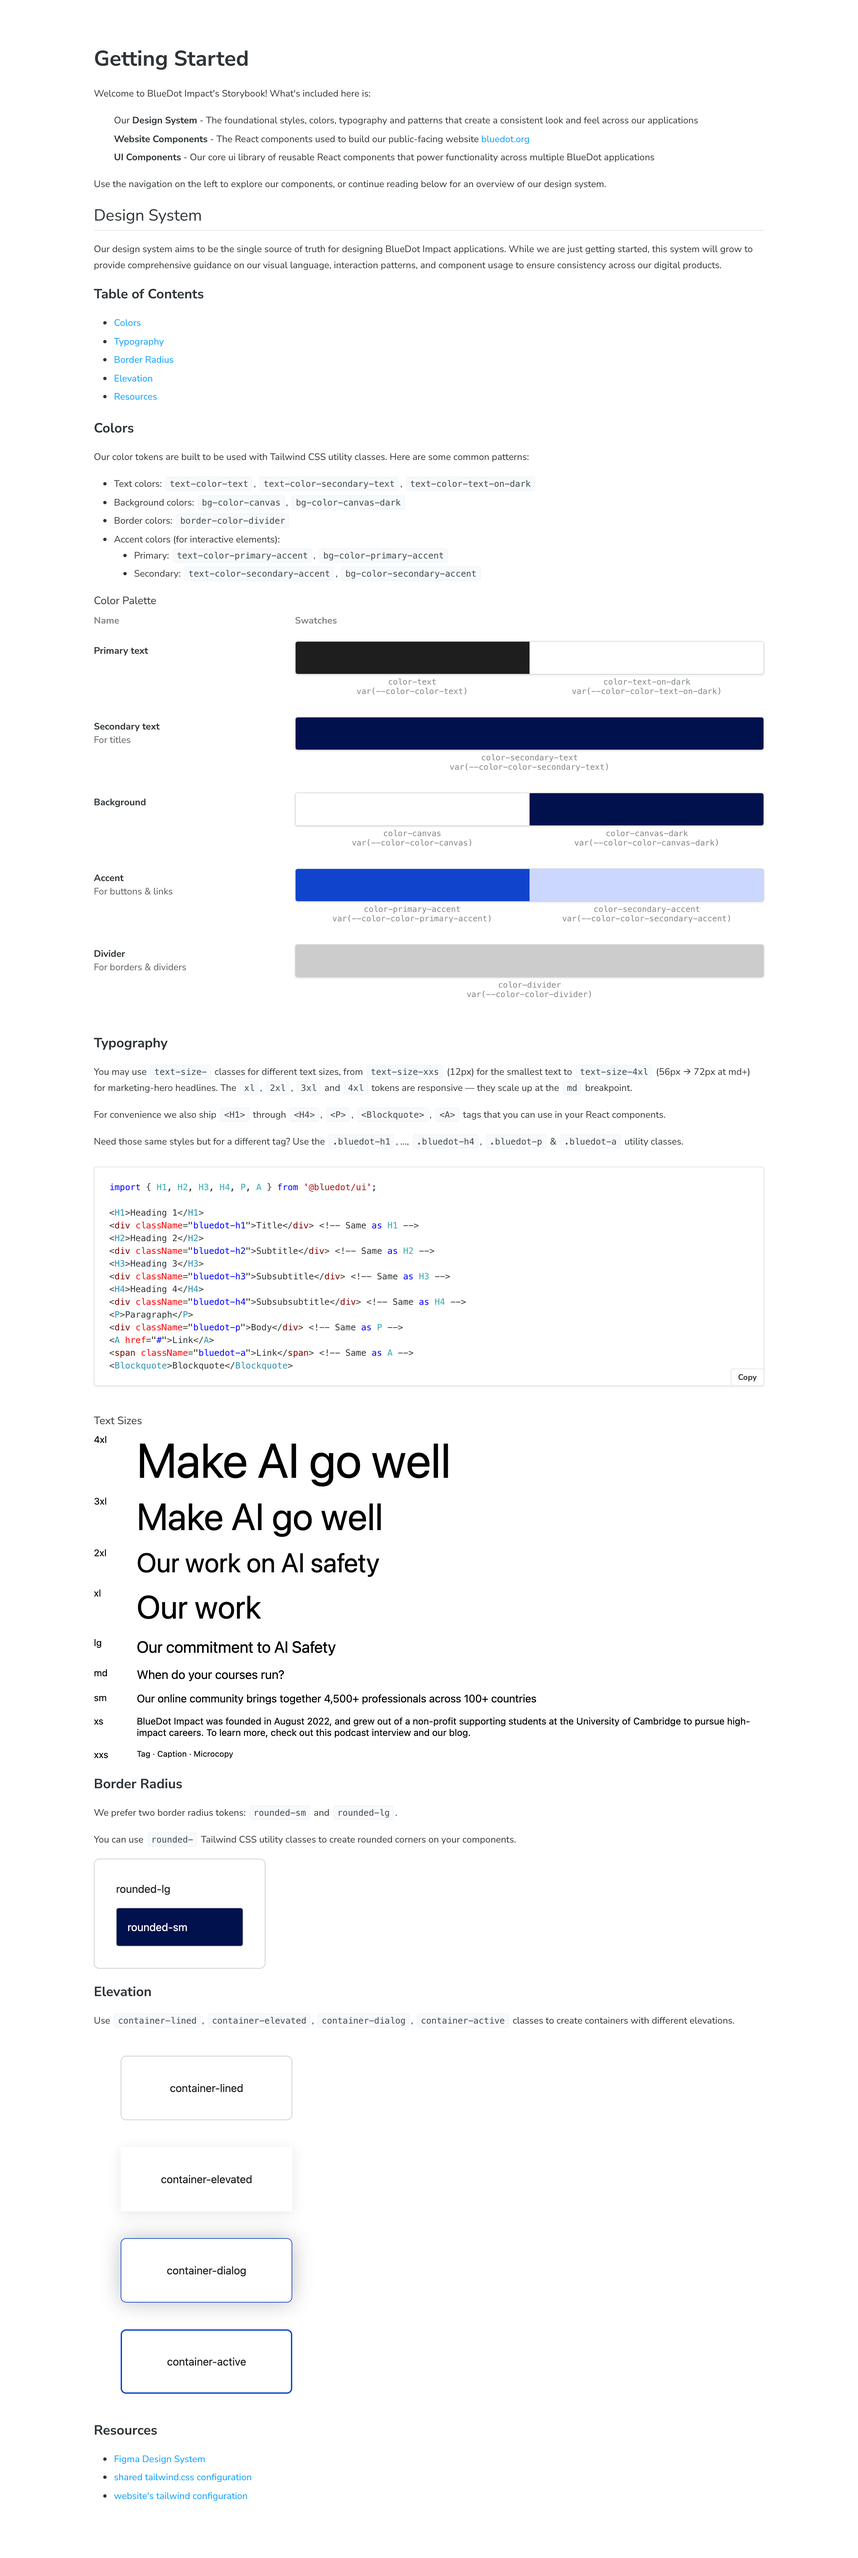
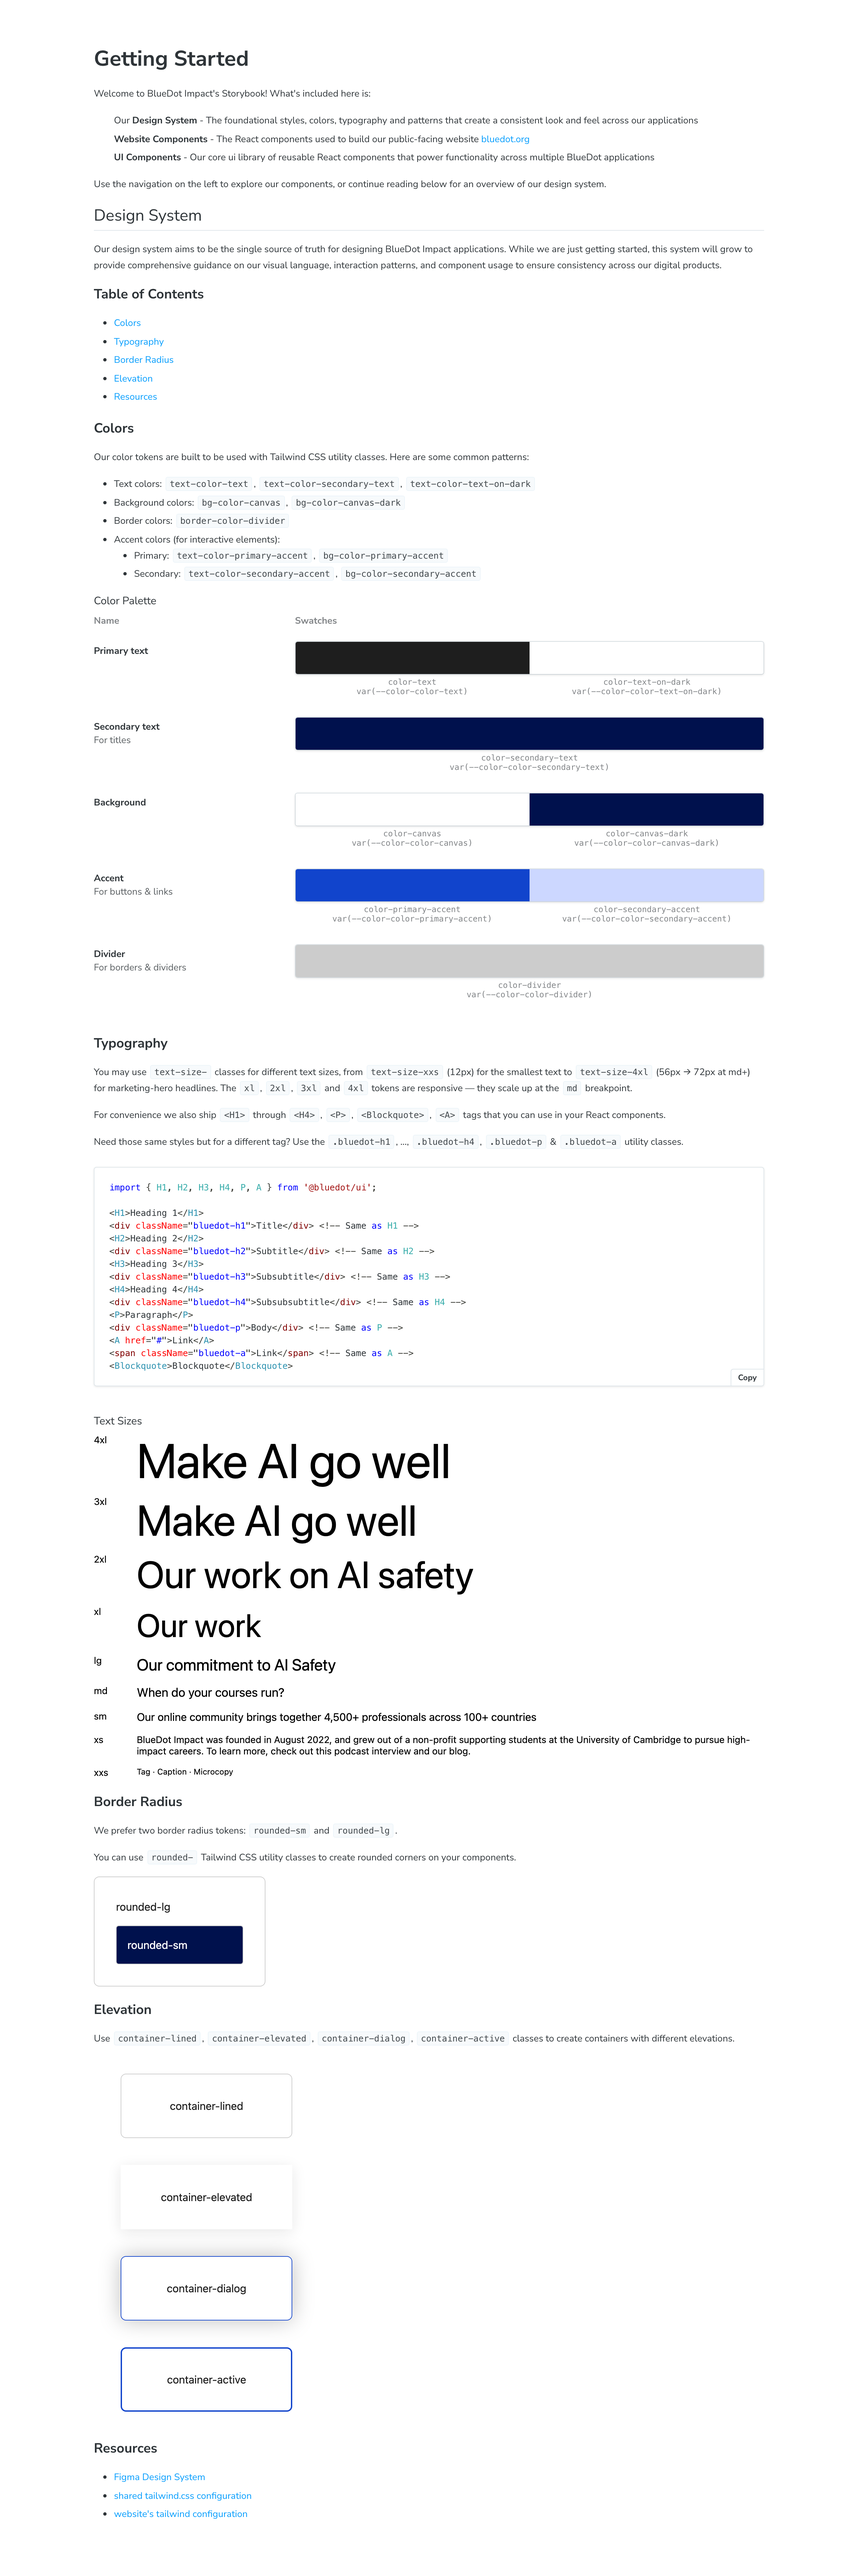
[fix] ui: shift 2xl/3xl up so each new token is larger than xl at every breakpoint
Greptile flagged a real scale inversion: text-size-xl resolves to 48px at
md+ while text-size-2xl was 40px, so xl rendered LARGER than 2xl on
desktop. A numbered scale must increase monotonically.

Revised values:
- 2xl: 36→40 px → 40→56 px
- 3xl: 48→56 px → 48→64 px
- 4xl: unchanged (56→72 px)

Mobile chain: 32 → 40 → 48 → 56 (steps 1.25 / 1.20 / 1.17)
md+ chain:    48 → 56 → 64 → 72 (steps 1.17 / 1.14 / 1.13)

Trade-off: 36px and 40px standalone usages no longer have an exact token
match. PR 2b will snap them per-occurrence (xl mobile=32 or 2xl mobile=40,
depending on intent).

Storybook specimen screenshot regenerated.

diff --git a/libraries/ui/src/default-config/tailwind.css b/libraries/ui/src/default-config/tailwind.css
@@ -266,7 +266,7 @@
     --text-size-md: 1.125rem; /* 18px */
     --text-size-lg: 1.5rem; /* 24px */
     --text-size-xl: 2rem; /* 32px */
-    --text-size-2xl: 2.25rem; /* 36px */
+    --text-size-2xl: 2.5rem; /* 40px */
     --text-size-3xl: 3rem; /* 48px */
     --text-size-4xl: 3.5rem; /* 56px */
     --spacing-x: var(--spacing-x-sm); /* For horizontal section padding */
@@ -278,8 +278,8 @@
 @media (width >= 48rem) {
     :root {
         --text-size-xl: 3rem; /* 48px */
-        --text-size-2xl: 2.5rem; /* 40px */
-        --text-size-3xl: 3.5rem; /* 56px */
+        --text-size-2xl: 3.5rem; /* 56px */
+        --text-size-3xl: 4rem; /* 64px */
         --text-size-4xl: 4.5rem; /* 72px */
         --spacing-x: var(--spacing-x-md); /* For horizontal section padding */
         --spacing-y: var(--spacing-y-md); /* For vertical section padding */
